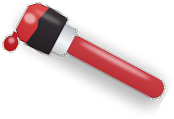
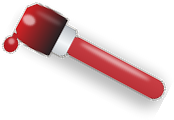
feat(escaparate): categorias clicables -> escaparate de productos por categoria + video + brocha pulida
- Escaparate: la seccion de la portada es ahora un selector; cada categoria
  abre /productos/[slug]/ con su gama (paneles premium, sin precio, listos para
  fotos reales). Categorias rehechas segun peticion: interior/exterior 1a,
  exterior 2a, esmaltes, impermeabilizantes, maderas y barnices, ecologicas
  (fuera "Suelos"). Titular "Elige que vas a pintar".
- Imagen provisional de "ecologicas" generada (pared verde).
- Seccion de VIDEO demostrativo (provisional pigmento.mp4).
- Brocha del cursor pulida: punta con degradado "mojado en rojo", mas premium.

diff --git a/src/data/site.ts b/src/data/site.ts
@@ -81,51 +81,108 @@ export const marcas = [
   }
 ];
 
-// --- Categorías de producto (escaparate, sin tienda online) ------------------
-// `img`: foto real (Pixabay, uso comercial sin atribución — ver CREDITS-IMAGENES.md).
-// `acabado`: etiqueta pequeña que acompaña al nombre en la ficha.
+// --- Categorías de producto (escaparate por categorías) ----------------------
+// Cada categoría abre su ESCAPARATE en /productos/[slug]/ con sus productos.
+// `img`: foto real (Pixabay, uso comercial — ver CREDITS-IMAGENES.md).
+// `productos`: catálogo de MUESTRA (sin precio; el cliente cambia fotos y datos).
+//   Cada producto: nombre, tipo (etiqueta), swatch (color de cabecera provisional
+//   hasta tener foto), img (opcional; si existe manda sobre el swatch).
 export const categorias = [
   {
-    nombre: 'Pintura interior',
-    acabado: 'Mate y satinado',
-    desc: 'Mate, satinada y lavable para paredes, techos y estancias con uso diario.',
+    slug: 'interior-exterior',
+    nombre: 'Pintura interior y exterior',
+    acabado: 'Plásticas · mate · satinado',
+    desc: 'Plásticas para paredes y techos, lavables y de gran cubrición, para interior y también fachada.',
     img: '/assets/img/categorias/interior.jpg',
-    alt: 'Pared interior pintada de rojo intenso con un banco delante'
+    alt: 'Pared interior pintada de rojo intenso con un banco delante',
+    intro: 'Plásticas de interior y exterior: mate, satinada y lavable, con buena cubrición y color a medida.',
+    productos: [
+      { nombre: 'Plástica mate interior', tipo: 'Interior · mate', swatch: '#ece6da', desc: 'Gran cubrición y acabado uniforme para paredes y techos.' },
+      { nombre: 'Plástica satinada lavable', tipo: 'Interior · satinado', swatch: '#dfd6c4', desc: 'Resiste roces y limpieza; ideal pasillos y zonas de paso.' },
+      { nombre: 'Antimoho baño y cocina', tipo: 'Interior · antihumedad', swatch: '#e7ede9', desc: 'Formulada para ambientes con vapor y condensación.' },
+      { nombre: 'Plástica exterior lisa', tipo: 'Exterior · lisa', swatch: '#e3ddcf', desc: 'Transpirable y resistente al sol y la lluvia.' },
+      { nombre: 'Color a medida (tintometría)', tipo: 'Cualquier RAL / NCS', swatch: '#c1121c', desc: 'Te la mezclamos en tienda al tono exacto que quieras.' }
+    ]
   },
   {
-    nombre: 'Fachadas y exterior',
-    acabado: 'Liso y rugoso',
-    desc: 'Revestimientos preparados para sol, lluvia y salitre de la costa.',
+    slug: 'exterior',
+    nombre: 'Pintura de exterior',
+    acabado: 'Fachadas · liso y rugoso',
+    desc: 'Revestimientos preparados para el sol, la lluvia y el salitre de la costa.',
     img: '/assets/img/categorias/fachadas.jpg',
-    alt: 'Fachada mediterránea en tonos pastel con carpintería azul'
+    alt: 'Fachada mediterránea en tonos pastel con carpintería azul',
+    intro: 'Todo para fachada: lisos, rugosos, monocapa y elastoméricos que aguantan el clima de la costa.',
+    productos: [
+      { nombre: 'Fachada lisa', tipo: 'Exterior · liso', swatch: '#e8e2d4', desc: 'Acabado liso y transpirable para muros en buen estado.' },
+      { nombre: 'Revestimiento rugoso / pétreo', tipo: 'Exterior · textura', swatch: '#d8cfbc', desc: 'Cubre pequeñas imperfecciones y da textura.' },
+      { nombre: 'Monocapa fachadas', tipo: 'Exterior · monocapa', swatch: '#efe9dc', desc: 'Impermeable al agua de lluvia, en una sola mano.' },
+      { nombre: 'Elastomérica anticarbonatación', tipo: 'Exterior · elástica', swatch: '#e2ddd2', desc: 'Puentea microfisuras y protege el hormigón.' },
+      { nombre: 'Fijador / imprimación exterior', tipo: 'Exterior · fondo', swatch: '#d5cebd', desc: 'Consolida el soporte antes de pintar.' }
+    ]
   },
   {
-    nombre: 'Esmaltes',
-    acabado: 'Brillo lacado',
-    desc: 'Acabados resistentes para metal, puertas, radiadores y pequeños trabajos.',
+    slug: 'esmaltes',
+    nombre: 'Esmaltes al disolvente y al agua',
+    acabado: 'Brillo · satinado · mate',
+    desc: 'Acabados resistentes para metal, madera, puertas, rejas y radiadores.',
     img: '/assets/img/categorias/esmaltes.jpg',
-    alt: 'Reja de forja esmaltada en azul con remates dorados'
+    alt: 'Reja de forja esmaltada en azul con remates dorados',
+    intro: 'Esmaltes al disolvente y al agua para un acabado duro y bonito en metal, madera y carpintería.',
+    productos: [
+      { nombre: 'Esmalte sintético brillo', tipo: 'Disolvente · brillo', swatch: '#1f6fb2', desc: 'Máxima dureza y brillo para interior y exterior.' },
+      { nombre: 'Esmalte al agua satinado', tipo: 'Al agua · satinado', swatch: '#8aa0b8', desc: 'Poco olor, secado rápido y no amarillea.' },
+      { nombre: 'Esmalte antioxidante (forja)', tipo: 'Metal · antióxido', swatch: '#2b2f33', desc: 'Protege y decora rejas, vallas y elementos de hierro.' },
+      { nombre: 'Esmalte para radiadores', tipo: 'Alta temperatura', swatch: '#f0ece2', desc: 'Aguanta el calor sin amarillear.' },
+      { nombre: 'Imprimación multisuperficie', tipo: 'Fondo · agarre', swatch: '#c9c2b4', desc: 'Buen agarre sobre metal, PVC, azulejo y melamina.' }
+    ]
   },
   {
-    nombre: 'Madera y barnices',
-    acabado: 'Veta satinada',
-    desc: 'Barnices, lasures y protectores para cuidar madera interior y exterior.',
-    img: '/assets/img/categorias/madera.jpg',
-    alt: 'Salón con muebles de madera barnizada'
-  },
-  {
-    nombre: 'Suelos',
-    acabado: 'Pulido y epoxi',
-    desc: 'Pinturas y sistemas para garajes, pavimentos y zonas de paso.',
-    img: '/assets/img/categorias/suelos.jpg',
-    alt: 'Suelo de garaje pintado con flecha de señalización y líneas de aparcamiento'
-  },
-  {
-    nombre: 'Impermeabilización',
-    acabado: 'Caucho elástico',
+    slug: 'impermeabilizantes',
+    nombre: 'Impermeabilizantes',
+    acabado: 'Caucho · membranas',
     desc: 'Cauchos, membranas y soluciones para terrazas, cubiertas y filtraciones.',
     img: '/assets/img/categorias/imper.jpg',
-    alt: 'Terraza impermeabilizada en blanco con tumbonas y vistas'
+    alt: 'Terraza impermeabilizada en blanco con tumbonas y vistas',
+    intro: 'Soluciones contra el agua: cauchos elásticos, membranas y selladores para terrazas y cubiertas.',
+    productos: [
+      { nombre: 'Caucho acrílico para terrazas', tipo: 'Transitable · elástico', swatch: '#eef0ef', desc: 'Impermeabiliza y se puede pisar; refleja el calor.' },
+      { nombre: 'Membrana de poliuretano', tipo: 'Alta resistencia', swatch: '#d9d5cc', desc: 'Gran elasticidad y durabilidad en cubiertas.' },
+      { nombre: 'Impermeabilizante fibrado', tipo: 'Refuerzo · fibras', swatch: '#cfcabd', desc: 'Con fibras para puntos críticos y encuentros.' },
+      { nombre: 'Sellador de fisuras', tipo: 'Reparación', swatch: '#e6e2d8', desc: 'Sella grietas y juntas antes de impermeabilizar.' },
+      { nombre: 'Puente de unión / imprimación', tipo: 'Fondo', swatch: '#c6c0b1', desc: 'Mejora la adherencia sobre soportes difíciles.' }
+    ]
+  },
+  {
+    slug: 'madera-barnices',
+    nombre: 'Maderas y barnices',
+    acabado: 'Barniz · lasur · protector',
+    desc: 'Barnices, lasures y protectores para cuidar la madera de interior y exterior.',
+    img: '/assets/img/categorias/madera.jpg',
+    alt: 'Salón con muebles de madera barnizada',
+    intro: 'Para proteger y realzar la madera: barnices, lasures y aceites de interior y de intemperie.',
+    productos: [
+      { nombre: 'Barniz sintético', tipo: 'Interior/exterior · brillo', swatch: '#a9743e', desc: 'Protege y da brillo respetando la veta.' },
+      { nombre: 'Lasur protector exterior', tipo: 'Intemperie · poro abierto', swatch: '#8a5a2e', desc: 'Deja respirar la madera y la protege del sol.' },
+      { nombre: 'Barniz al agua interior', tipo: 'Al agua · bajo olor', swatch: '#c39a63', desc: 'No amarillea, secado rápido, poco olor.' },
+      { nombre: 'Aceite / protector para madera', tipo: 'Nutrición', swatch: '#7a4a28', desc: 'Nutre e hidrata suelos y muebles de madera.' },
+      { nombre: 'Tapaporos / imprimación madera', tipo: 'Fondo', swatch: '#cbb48c', desc: 'Sella el poro para un acabado más liso.' }
+    ]
+  },
+  {
+    slug: 'ecologicas',
+    nombre: 'Pinturas ecológicas',
+    acabado: 'Base agua · bajo olor',
+    desc: 'Pinturas al agua, minerales y a la cal, de bajo olor y bajas emisiones.',
+    img: '/assets/img/categorias/ecologicas.jpg',
+    alt: 'Bote de pintura ecológica con hoja verde sobre fondo claro',
+    intro: 'Opciones más sostenibles: base agua, minerales y a la cal, con bajo olor y bajas emisiones.',
+    productos: [
+      { nombre: 'Pintura mineral al silicato', tipo: 'Mineral · transpirable', swatch: '#e9ead9', desc: 'Muy transpirable y duradera, ideal para fachada.' },
+      { nombre: 'Plástica ecológica bajo olor', tipo: 'Interior · base agua', swatch: '#eef0e4', desc: 'Bajas emisiones (COV), apta para dormitorios.' },
+      { nombre: 'Pintura a la cal', tipo: 'Natural · mate', swatch: '#f0ede2', desc: 'Acabado mate natural y antimoho por naturaleza.' },
+      { nombre: 'Esmalte al agua ecológico', tipo: 'Madera/metal · agua', swatch: '#dfe6d8', desc: 'Acabado esmalte con muy poco olor.' },
+      { nombre: 'Imprimación base agua', tipo: 'Fondo · agua', swatch: '#d9ddca', desc: 'Fondo de bajo olor para preparar el soporte.' }
+    ]
   }
 ];
 // Complementos (sin protagonismo, por decisión de negocio: el foco es la pintura)

diff --git a/src/styles/global.css b/src/styles/global.css
@@ -267,6 +267,24 @@ body {
 .pieza:hover {
   transform: translateY(-4px);
 }
+/* Flecha "ver gama" que aparece al pasar por encima */
+.pieza__arrow {
+  transform: translateX(-5px);
+  opacity: 0;
+  transition:
+    transform 0.35s cubic-bezier(0.22, 1, 0.36, 1),
+    opacity 0.35s ease;
+}
+.pieza:hover .pieza__arrow {
+  transform: none;
+  opacity: 1;
+}
+.pieza__cta svg {
+  transition: transform 0.35s cubic-bezier(0.22, 1, 0.36, 1);
+}
+.pieza:hover .pieza__cta svg {
+  transform: translateX(4px);
+}
 @media (prefers-reduced-motion: reduce) {
   .pieza,
   .pieza:hover,
@@ -292,6 +310,48 @@ body {
   inset: 0;
   background: radial-gradient(120% 90% at 28% -10%, rgba(255, 255, 255, 0.32), transparent 55%);
   pointer-events: none;
+}
+
+/* Paneles del ESCAPARATE de productos: cabecera = muestra de la pintura
+   (color `--sw`) con brillo tipo esmalte y un acento rojo al pasar. */
+.prod__cover {
+  background-color: var(--sw, #cbb);
+  background-image:
+    radial-gradient(130% 100% at 22% 6%, rgba(255, 255, 255, 0.3), transparent 52%),
+    linear-gradient(155deg, color-mix(in srgb, var(--sw), #fff 12%), color-mix(in srgb, var(--sw), #000 24%));
+  transition: filter 0.5s ease;
+}
+.prod:hover .prod__cover {
+  filter: brightness(1.06) saturate(1.05);
+}
+.prod__cover::after {
+  content: '';
+  position: absolute;
+  inset: auto 0 0 0;
+  height: 3px;
+  background: var(--color-rojo);
+  transform: scaleX(0);
+  transform-origin: left;
+  transition: transform 0.5s cubic-bezier(0.22, 1, 0.36, 1);
+}
+.prod:hover .prod__cover::after {
+  transform: scaleX(1);
+}
+.prod {
+  transition:
+    transform 0.4s cubic-bezier(0.22, 1, 0.36, 1),
+    border-color 0.4s ease;
+}
+@media (prefers-reduced-motion: reduce) {
+  .prod,
+  .prod:hover,
+  .prod__cover,
+  .prod__cover::after,
+  .pieza__arrow,
+  .pieza__cta svg {
+    transition: none;
+    transform: none;
+  }
 }
 
 /* Fachadas: revestimiento con grano fino (placeholder de foto de tienda) */

diff --git a/HANDOFF.md b/HANDOFF.md
@@ -74,6 +74,12 @@ También en memoria global: `feedback_direccion_arte.md` y `feedback_web_design_
 
 ## 4. MAPA DEL PROYECTO
 
+### ESCAPARATE DE PRODUCTOS (nuevo)
+- La sección `#productos` de la portada (`Categorias.astro`) es ahora un **selector de categorías**: cada tile es un enlace a `/productos/[slug]/`. Titular cambiado a "Elige qué vas a pintar."
+- **Categorías** (en `site.ts`, con `slug`, `intro` y `productos[]`): `interior-exterior` (1ª, obligatoria), `exterior` (2ª, obligatoria), `esmaltes`, `impermeabilizantes`, `madera-barnices`, `ecologicas`. (Se QUITÓ "Suelos".) Cada categoría lleva su gama de `productos` de MUESTRA (sin precio): `{nombre, tipo, swatch (color de cabecera provisional), desc}`. El cliente cambiará fotos/datos.
+- **`src/pages/productos/[slug].astro`** — escaparate premium por categoría (`getStaticPaths` desde `categorias`): cabecera con la foto de la categoría + intro + WhatsApp, selector de categorías (chips), rejilla de tarjetas `.prod` (cabecera = muestra de color `--sw` con brillo esmalte + etiqueta `tipo`, sin precio), banner "muestra" y cierre rojo. Estilos `.prod`/`.prod__cover` en `global.css`.
+- **`VideoDemo.astro`** (sección `#video` en la portada, tras Nosotros) — vídeo demostrativo; usa `pigmento.mp4` como **PROVISIONAL** (etiqueta "Vídeo de muestra"), a sustituir por el vídeo real del cliente.
+
 ### Páginas (`src/pages/`)
 - **`index.astro`** — portada. Orden de secciones: `Hero → Categorias → Tintometria(#color = "Imagina tu pared") → Servicios → Nosotros → Ubicacion(#tienda) → Marcas → CTAFinal → Footer → WhatsAppFloat`. `<main id="main">`.
 - **`cartas.astro`** (`/cartas/`) — explorador de cartas. **VÍDEO de pigmentos en agua como FONDO FIJO de todo el apartado** (commit `3407921`). El clip (43,4 s) tenía un **movimiento de cámara incómodo en los primeros segundos**; el JS lo evita **arrancando y haciendo BUCLE desde un punto estable** (`IN=4.0 s`, nunca vuelve al segundo 0): quita `autoplay`/`loop` del HTML, hace `seek(IN)` con el vídeo en pausa y solo entonces `play()` (sin destello del inicio), y en `timeupdate` salta a `IN` al acercarse al final. `playbackRate = 1.2` (un pelín más ágil). Las secciones de contenido son translúcidas. Respeta `prefers-reduced-motion` (`.video-hero__media` se oculta). Tabs RAL/NCS/Eurotrend con distintivo de cada sistema; buscador por código/nombre; rejilla RAL (213) + NCS COMPLETO generado en cliente (2259 tonos) + Eurotrend vacía con aviso. Enlace final a "Imagina tu pared".

diff --git a/CREDITS-IMAGENES.md b/CREDITS-IMAGENES.md
@@ -13,6 +13,8 @@ obligatoria). Descargadas 2026-07-07.
 | `madera.jpg` | furniture-998265 | Salón con muebles de madera barnizada |
 | `suelos.jpg` | parking-219767 | Suelo de garaje pintado con flecha y líneas de aparcamiento |
 | `imper.jpg` | roof-terrace-354906 | Terraza impermeabilizada con tumbonas |
+| `ecologicas.jpg` | — (generada) | Pared verde recién pintada, textura de rodillo, GENERADA con Python/PIL (provisional para la categoría "Pinturas ecológicas"; sustituir por foto real) |
+| `suelos.jpg` | parking-219767 | (SIN USO: la categoría "Suelos" se quitó del escaparate) |
 | `tienda/botes.jpg` | color-417694 | Estantería de botes de pintura mezclada (provisional para Nosotros) |
 | `simulador/interior.jpg` | wall-751342 | Pared lisa de interior con suelo abajo (superficie Interior del simulador); solo se pinta la pared, no el rodapié/suelo; suelo cambiado a tarima gris clara; la pintura llega hasta el suelo sin hueco blanco; base neutralizada para color fiel; máscara propia |
 | `simulador/fachada.jpg` | door-2096367 | Fachada mediterránea (superficie Exterior); placa/cartel y farol de encima de la puerta eliminados por inpaint; pavimento subido para que la puerta llegue al suelo + sombra de contacto (sin franja blanca abajo); máscara propia con dilatación anti-hilillos (recorte milimétrico) |